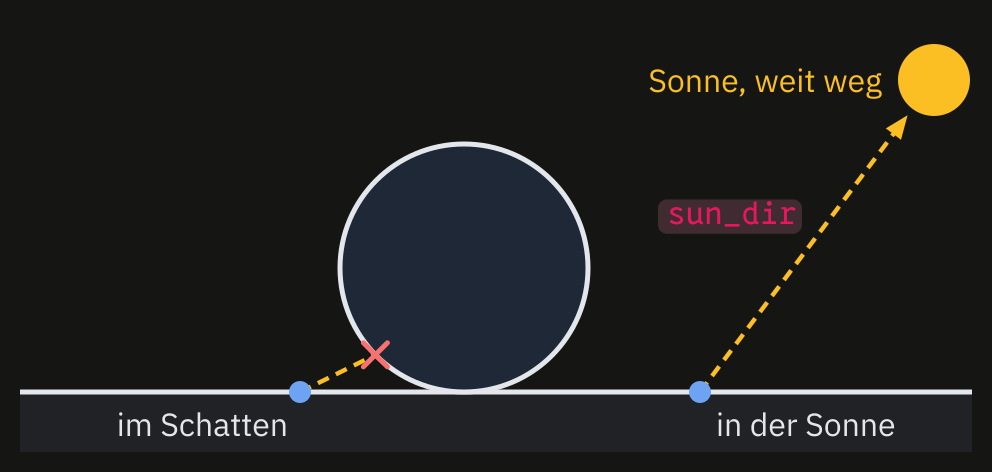
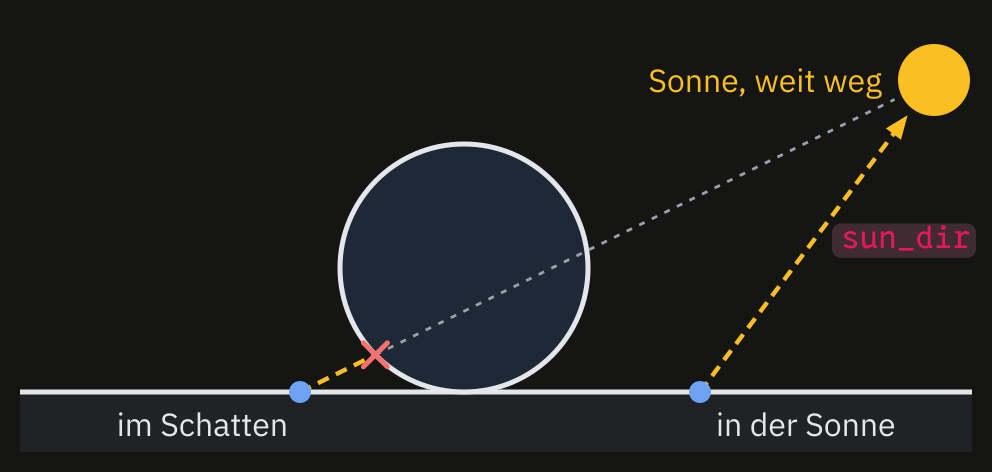
Raytracing, Schattenstrahl: the blocked ray goes on thin and dashed to the sun, where it would have gone; sun_dir beside the right ray

diff --git a/src/content/raytracing/bilder/diagramme.py b/src/content/raytracing/bilder/diagramme.py
@@ -346,8 +346,8 @@ def naechster():
 def schattenstrahl():
     w, h = 496, 236
     s = Svg('schattenstrahl', w, h, 'Eine Kugel auf dem Boden, die Sonne weit weg rechts oben. Von zwei Treffpunkten auf '
-            'dem Boden geht je ein Strahl zur Sonne, in Richtung sun_dir. Der linke stößt an die Kugel: Schatten. Der '
-            'rechte kommt frei bis zur Sonne.')
+            'dem Boden geht je ein Strahl zur Sonne, in Richtung sun_dir. Der linke stößt an die Kugel: Schatten; dünn '
+            'gestrichelt, wie er weiter zur Sonne ginge. Der rechte kommt frei bis zur Sonne.')
     fy = 196
     s.rect(10, fy, w - 20, 30, LIGHT)
     s.line((10, fy), (w - 10, fy), INK, 2.5)
@@ -365,6 +365,8 @@ def schattenstrahl():
     t1 = ray_circle(p1, to_sun, c, r)
     q1 = add(p1, mul(to_sun, t1))
     s.line(p1, q1, AMBER, 2.2, dash='6 4')
+    # where it would have gone: on to the sun, thin and grey, through the ball
+    s.line(q1, sub(sun_c, mul(to_sun, sun_r + 4)), GREY, 1.4, dash='3 4')
     s.cross(q1, 6, RED)
     s.dot(p1, 5.5, BLUE)
     s.text((p1[0] - 6, fy + 22), 'im Schatten', INK, 'end')
@@ -373,7 +375,7 @@ def schattenstrahl():
     s.arrow(p2, sun_c, AMBER, 2.2, dash='6 4', gap=sun_r + 4)
     s.dot(p2, 5.5, BLUE)
     s.text((p2[0] + 8, fy + 22), 'in der Sonne', INK, 'start')
-    s.code(add(lerp(p2, sun_c, 0.5), (-12, -6)), 'sun_dir', 'end')
+    s.code(add(lerp(p2, sun_c, 0.5), (12, 6)), 'sun_dir', 'start')
     s.circle(sun_c, sun_r, AMBER, None)
     s.text((sun_c[0] - sun_r - 8, sun_c[1] + 6), 'Sonne, weit weg', AMBER, 'end')
     return s
